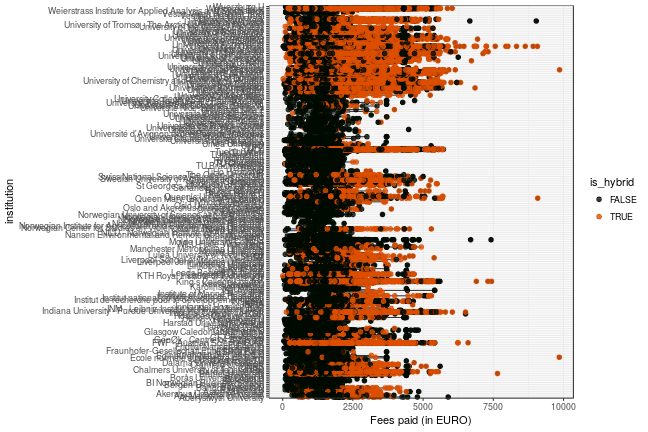
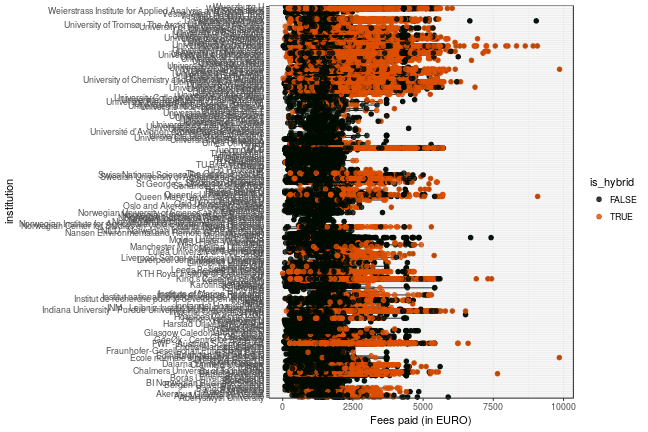
post: couperin data 2017 addendum

Changed region(s): [[0.0309, 0.0301, 0.8333, 0.9028], [0.7099, 0.6319, 0.7716, 0.662], [0.7099, 0.5417, 0.7716, 0.5718]]

diff --git a/about.md b/about.md
@@ -170,8 +170,10 @@ The [Couperin consortium](https://couperin.org) aggregates data on APC expenditu
 - Hospices Civils de Lyon
 - Université Grenoble Alpes
 - Institut de recherche pour le développement (IRD)
+- Institut français des sciences et technologies des transports, de l'aménagement et des réseaux (IFSTTAR)
 - Institut national de recherche en informatique et en automatique (INRIA)
 - Institut national de la recherche agronomique (INRA)
+- Institut national de recherche en sciences et technologies pour l'environnement et l'agriculture (IRSTEA)
 - Institut national de la santé et de la recherche médicale (INSERM)
 - Institut national polytechnique de Toulouse (INPT)
 - Université d'Avignon et des Pays de Vaucluse
@@ -292,13 +294,13 @@ Jisc Collections released data on APC payments made by UK higher education insti
 
 Information on both open access journal articles and open access publication of articles in toll-access journals ("hybrid") are provided.
 
-In total,  141 474 229 € for  71 556 articles were paid by the participating unviversities. Average  fee is 1 977.1 € and the median 1 786 €.
+In total,  141 596 654 € for  71 643 articles were paid by the participating unviversities. Average  fee is 1 976.4 € and the median 1 785 €.
 
 ### Open Access Journals
 
 
 
-At the moment, the dataset releases information on 39 927 articles in open access journals which charge publication fees. Total expenditure amounts to  62 112 793 €. Average  fee is 1 555.7 € and the median 1 459 €.
+At the moment, the dataset releases information on 40 011 articles in open access journals which charge publication fees. Total expenditure amounts to  62 231 181 €. Average  fee is 1 555.4 € and the median 1 459 €.
 
 View dataset on [GitHub](https://github.com/OpenAPC/openapc-de/blob/master/data/apc_de.csv).
 
@@ -352,18 +354,20 @@ View dataset on [GitHub](https://github.com/OpenAPC/openapc-de/blob/master/data/
 |Heriot-Watt University                                          |       33|            79,717|         2,416|  2,248|
 |Hospices Civils de Lyon                                         |        4|             5,695|         1,424|  1,320|
 |HZDR                                                            |       83|           122,636|         1,478|  1,213|
+|IFSTTAR                                                         |       11|            11,320|         1,029|    855|
 |Imperial College London                                         |      996|         1,910,589|         1,918|  1,625|
 |Indiana University - Purdue University Indianapolis (IUPUI)     |      114|           166,599|         1,461|  1,362|
 |INM - Leibniz-Institut für Neue Materialien                     |        5|             5,744|         1,149|  1,305|
 |Innlandet Hospital Trust                                        |        3|             5,174|         1,725|  1,917|
 |INRA                                                            |      125|           202,935|         1,623|  1,405|
-|INRIA                                                           |       31|            46,138|         1,488|  1,288|
+|INRIA                                                           |       77|           118,761|         1,542|  1,538|
 |INSERM                                                          |      872|         1,575,120|         1,806|  1,495|
 |Institut de recherche pour le développement (IRD)               |       66|            89,007|         1,349|  1,313|
 |Institut national polytechnique de Toulouse                     |       10|            12,710|         1,271|  1,170|
 |Institute of Cancer Research                                    |       20|            43,133|         2,157|  1,673|
 |Institute of Marine Research                                    |       14|            20,153|         1,440|  1,404|
 |IPN                                                             |        4|             3,909|           977|    479|
+|IRSTEA                                                          |       21|            27,516|         1,310|  1,495|
 |IST Austria                                                     |       13|            30,578|         2,352|  1,632|
 |JGU Mainz                                                       |      410|           568,189|         1,386|  1,392|
 |Karolinska Institutet                                           |        8|             5,073|           634|    755|
@@ -455,7 +459,7 @@ View dataset on [GitHub](https://github.com/OpenAPC/openapc-de/blob/master/data/
 |Université de Bordeaux                                          |       18|            25,745|         1,430|  1,258|
 |Université de Bourgogne                                         |       29|            46,606|         1,607|  1,534|
 |Université de Caen Normandie                                    |       32|            41,815|         1,307|  1,350|
-|Université de France-Comté                                      |       12|            14,767|         1,231|  1,184|
+|Université de Franche-Comté                                     |       18|            21,696|         1,205|  1,184|
 |Université de Lorraine                                          |       20|            24,914|         1,246|  1,128|
 |Université de Nantes                                            |       24|            36,474|         1,520|  1,495|
 |Université de Poitiers                                          |        7|             9,691|         1,384|  1,099|
@@ -528,7 +532,7 @@ View dataset on [GitHub](https://github.com/OpenAPC/openapc-de/blob/master/data/
 
 
 In many toll-access journals some of the articles are open access after a fee has been paid. This model is often called "hybrid open access".
-The dataset covers 31 629 hybrid open access articles. Total expenditure amounts to  79 361 436 €. Average  fee is 2 509.1 € and the median 2 453 €.
+The dataset covers 31 632 hybrid open access articles. Total expenditure amounts to  79 365 473 €. Average  fee is 2 509 € and the median 2 453 €.
 
 The following institutions have contributed its expenditures for hybrid open access.
 
@@ -570,7 +574,7 @@ The following institutions have contributed its expenditures for hybrid open acc
 |Indiana University - Purdue University Indianapolis (IUPUI) |        2|             3,019|         1,509|  1,509|
 |INM - Leibniz-Institut für Neue Materialien                 |        9|            27,020|         3,002|  3,213|
 |INRA                                                        |       24|            54,829|         2,285|  2,316|
-|INRIA                                                       |        4|             7,211|         1,803|  1,788|
+|INRIA                                                       |        6|            10,941|         1,823|  1,865|
 |INSERM                                                      |      137|           321,923|         2,350|  2,350|
 |Institut de recherche pour le développement (IRD)           |        5|             6,375|         1,275|    440|
 |Institute of Cancer Research                                |       67|           206,220|         3,078|  2,811|
@@ -622,6 +626,7 @@ The following institutions have contributed its expenditures for hybrid open acc
 |Université de Bordeaux                                      |        1|             2,709|         2,709|  2,709|
 |Université de Bourgogne                                     |        1|             1,950|         1,950|  1,950|
 |Université de Caen Normandie                                |        1|               750|           750|    750|
+|Université de Franche-Comté                                 |        1|               307|           307|    307|
 |Université de Lorraine                                      |        1|             1,370|         1,370|  1,370|
 |Université de Nantes                                        |        2|             6,191|         3,096|  3,096|
 |Université de Poitiers                                      |        2|             3,836|         1,918|  1,918|

diff --git a/_posts/2018-11-26-couperin.md b/_posts/2018-11-26-couperin.md
@@ -1,0 +1,69 @@
+---
+layout:     post
+author:     Christoph Broschinski
+author_lnk: https://github.com/cbroschinski
+title:      Couperin.org provides APC data for 4 more institutions
+date:       2018-11-26 08:00:00
+summary:    
+categories: [general, openAPC]
+comments: true
+---
+
+
+
+
+The [Couperin consortium](https://couperin.org) collects data on APC expenditures from universities and other research institutions in France. 
+
+APC expenditures for 4 more institutions have now been made available to OpenAPC, completing the [2017 data report](https://openapc.github.io/general/openapc/2018/11/22/couperin/).
+
+Contact Persons for Couperin are [Valerie Larroque](mailto:valerie.larroque@couperin.org) and [Sandrine Malotaux](mailto:sandrine.malotaux@inp-toulouse.fr).
+
+## Cost data
+
+
+
+The new data set provided by Couperin covers publication fees for 87 articles published in 2017. Total expenditure amounts to 122 425€ and the average fee is 1 407€.
+
+The data originates from the Université de Franche-Comté and the research institutes IRSTEA, INRIA and IFSTTAR.
+
+
+## Overview
+
+A detailed analysis of the contributed data sets provides the following overview:
+
+### Breakdown by publisher
+
+
+|                                                            | Articles| Fees paid in EURO| Mean Fee paid|
+|:-----------------------------------------------------------|--------:|-----------------:|-------------:|
+|Springer Nature                                             |       18|             25069|          1393|
+|Frontiers Media SA                                          |       17|             29556|          1739|
+|Public Library of Science (PLoS)                            |       13|             21185|          1630|
+|MDPI AG                                                     |       10|             13858|          1386|
+|Copernicus GmbH                                             |        4|              6413|          1603|
+|Wiley-Blackwell                                             |        4|              6354|          1588|
+|Hindawi Publishing Corporation                              |        2|              3160|          1580|
+|Informa UK Limited                                          |        2|              2260|          1130|
+|PeerJ                                                       |        2|              1683|           841|
+|Regional Euro-Asian Biological Invasions Centre Oy (REABIC) |        2|               600|           300|
+|Acoustical Society of America (ASA)                         |        1|               480|           480|
+|Asociación Ibérica de Limnología                            |        1|               500|           500|
+|Cosmos Scholars Publishing House                            |        1|               307|           307|
+|David Publishing Company                                    |        1|               855|           855|
+|Herbert Publications PVT LTD                                |        1|               310|           310|
+|Institute of Electrical & Electronics Engineers (IEEE)      |        1|              1690|          1690|
+|IOP Publishing                                              |        1|              1560|          1560|
+|Oxford University Press (OUP)                               |        1|              1463|          1463|
+|SAGE Publications                                           |        1|              1697|          1697|
+|Taiwan Association for Aerosol Research                     |        1|               340|           340|
+|The Royal Society                                           |        1|              2040|          2040|
+|The Science and Information Organization                    |        1|               296|           296|
+|Uopen Journals                                              |        1|               750|           750|
+
+### Fees paid per publisher (in EURO)
+
+![plot of chunk tree_couperin_2018_11_26_full](/figure/tree_couperin_2018_11_26_full-1.png)
+
+###  Average costs per publisher (in EURO)
+
+![plot of chunk box_couperin_2018_11_26_publisher_full](/figure/box_couperin_2018_11_26_publisher_full-1.png)
